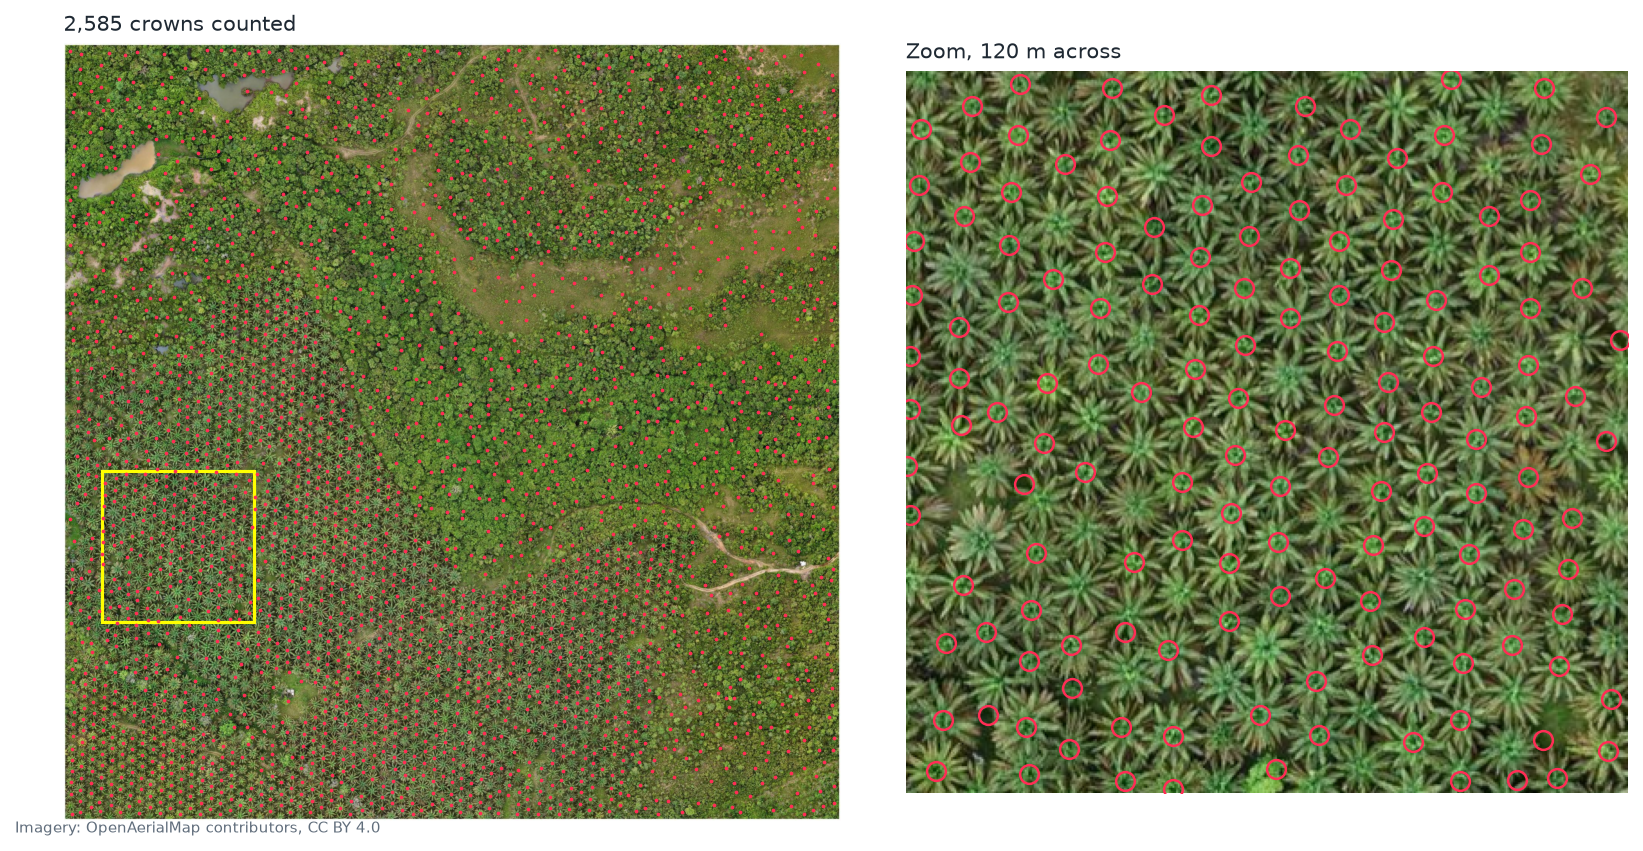
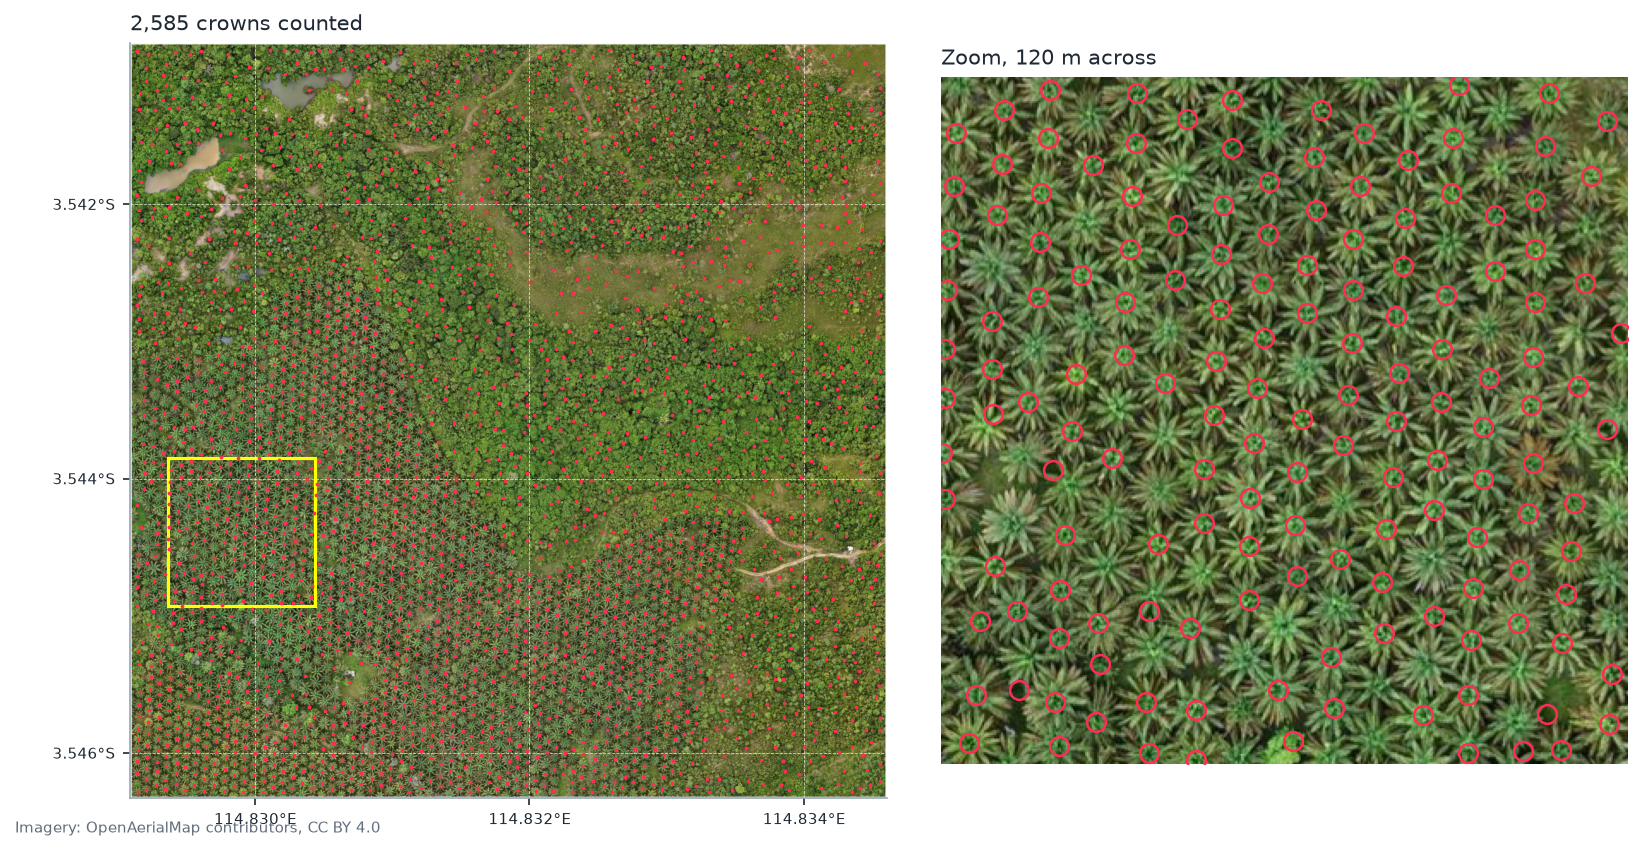
ch27: sensitivity study of the palm detector (35 settings; greenness cannot separate palms from other trees, spacing sweet spot 5-5.5 m, geometry filters), verdict and how to make it accurate; graticules on drone maps (EN+ID)
Claude-Session: https://claude.ai/code/session_01LrW3HEoXn4tmE8wHVZrLtN

diff --git a/scripts/py/ch27_palm_counting.py b/scripts/py/ch27_palm_counting.py
@@ -84,25 +84,48 @@ def density_frame():
     return grid * 4          # 50 m cell = 0.25 ha
 
 
+def lonlat_extent():
+    """The orthophoto's extent in degrees, for a graticule on the image maps."""
+    if "ext" not in _cache:
+        from rasterio.warp import transform_bounds
+        with rasterio.open("/vsicurl/" + URL) as src:
+            w, s_, e, n = transform_bounds(src.crs, "EPSG:4326", *src.bounds)
+        _cache["ext"] = [w, e, s_, n]
+    return _cache["ext"]
+
+
+def graticule(ax):
+    from matplotlib.ticker import FuncFormatter, MaxNLocator
+    ax.xaxis.set_major_locator(MaxNLocator(3)); ax.yaxis.set_major_locator(MaxNLocator(3))
+    ax.xaxis.set_major_formatter(FuncFormatter(lambda v, _: f"{abs(v):.3f}°E"))
+    ax.yaxis.set_major_formatter(FuncFormatter(lambda v, _: f"{abs(v):.3f}°S"))
+    ax.grid(True, color="#ffffff", lw=0.4, ls="--", alpha=0.7); ax.tick_params(labelsize=7)
+
+
 def figure_crowns():
     """The orthophoto with every counted crown, and a zoom on one corner."""
     rgb, res = load()
     peaks = count_palms()
     img = np.clip(np.moveaxis(rgb, 0, -1) / 255, 0, 1)
     fig, axes = plt.subplots(1, 2, figsize=(11, 5.6), gridspec_kw={"width_ratios": [1.2, 1]})
-    axes[0].imshow(img)
-    axes[0].plot(peaks[:, 1], peaks[:, 0], ".", color="#ff2d55", ms=1.6)
+    w, e, s_, n = lonlat_extent()
+    h, wd = img.shape[:2]
+    lon = w + (peaks[:, 1] + 0.5) / wd * (e - w)
+    lat = n - (peaks[:, 0] + 0.5) / h * (n - s_)
+    axes[0].imshow(img, extent=[w, e, s_, n])
+    axes[0].plot(lon, lat, ".", color="#ff2d55", ms=1.6)
     axes[0].set_title(f"{len(peaks):,} crowns counted", loc="left", fontsize=10)
     zy, zx, zs = int(0.55 * img.shape[0]), int(0.05 * img.shape[1]), int(120 / res)
-    axes[0].add_patch(plt.Rectangle((zx, zy), zs, zs, fill=False, ec="yellow", lw=1.5))
+    dx, dy = (e - w) / wd, (n - s_) / h
+    axes[0].add_patch(plt.Rectangle((w + zx * dx, n - (zy + zs) * dy), zs * dx, zs * dy, fill=False, ec="yellow", lw=1.5))
+    graticule(axes[0])
     axes[1].imshow(img[zy:zy + zs, zx:zx + zs])
     sel = ((peaks[:, 0] >= zy) & (peaks[:, 0] < zy + zs) &
            (peaks[:, 1] >= zx) & (peaks[:, 1] < zx + zs))
     axes[1].plot(peaks[sel, 1] - zx, peaks[sel, 0] - zy, "o", mfc="none", mec="#ff2d55",
                  ms=9, mew=1.2)
     axes[1].set_title("Zoom, 120 m across", loc="left", fontsize=10)
-    for ax in axes:
-        ax.set_axis_off()
+    axes[1].set_axis_off()            # a 120 m zoom; its position is the yellow box on the left map
     fig.text(0.01, 0.01, "Imagery: OpenAerialMap contributors, CC BY 4.0", fontsize=7,
              color="#616e7c")
     fig.tight_layout()
@@ -113,10 +136,14 @@ def figure_density():
     """Palms per hectare, 50 m cells."""
     grid = density_frame()
     fig, ax = plt.subplots(figsize=(6, 5.2))
-    im = ax.imshow(np.ma.masked_equal(grid, 0), cmap="YlGn", vmin=0, vmax=180)
+    w, e, s_, n = lonlat_extent()
+    rgb, res = load()
+    cell = int(50 / res)
+    ext = [w, w + grid.shape[1] * cell / rgb.shape[2] * (e - w), n - grid.shape[0] * cell / rgb.shape[1] * (n - s_), n]
+    im = ax.imshow(np.ma.masked_equal(grid, 0), cmap="YlGn", vmin=0, vmax=180, extent=ext)
     fig.colorbar(im, ax=ax, label="Palms per hectare (50 m cells)", shrink=0.8)
     ax.set_title("Planting density", loc="left", fontsize=10)
-    ax.set_axis_off()
+    graticule(ax); ax.grid(True, color="#333333", lw=0.3, ls="--")
     return fig
 
 
@@ -234,6 +261,97 @@ def plot_crosscheck(t):
     return fig
 
 
+# ---------------------------------------------------------------------------
+# Sensitivity: which settings count palms, and which count other trees too?
+# ---------------------------------------------------------------------------
+def smooth_exg():
+    if "smooth" not in _cache:
+        rgb, res = load()
+        r, g, b = rgb
+        exg = (2 * g - r - b) / np.maximum(r + g + b, 1)
+        _cache["smooth"] = ndi.gaussian_filter(exg, SIGMA_M / res)
+        _cache["valid"] = (rgb.sum(0) > 0).astype(int)
+    return _cache["smooth"], _cache["valid"]
+
+
+def detect(threshold, spacing_m):
+    sm, valid = smooth_exg()
+    _, res = load()
+    return peak_local_max(sm, min_distance=int(spacing_m / res), threshold_abs=threshold, labels=valid)
+
+
+def on_grid(peaks):
+    """True for detections with at least 3 neighbours 7-11 m away, as on a planting grid."""
+    _, res = load()
+    xy = peaks * res
+    tree = cKDTree(xy)
+    n_in = np.array([len(tree.query_ball_point(p, 11)) for p in xy])
+    n_close = np.array([len(tree.query_ball_point(p, 7)) for p in xy])
+    return (n_in - n_close) >= 3
+
+
+THRESHOLDS = (0.04, 0.30, 0.35, 0.40, 0.45, 0.50, 0.55)     # 0.04 is the default above; crown peaks start near 0.30
+SPACINGS = (4.0, 5.0, 5.5, 6.0, 7.0)
+
+
+def sensitivity_frame():
+    """Every combination of greenness threshold and minimum spacing, scored with two independent proxies.
+
+    No field count exists, so 'truth' is replaced by what two other sources agree on:
+      * not palm: detections in 50 m cells the satellite palm model scores below 0.2
+        (the drone confirms most of these cells are unplanted);
+      * palm-like: detections in cells the satellite scores above 0.5 that also
+        sit on a planting grid (>= 3 neighbours 7-11 m away).
+    """
+    if "sens" in _cache:
+        return _cache["sens"]
+    d = cells_frame()
+    _, res = load()
+    cell = int(50 / res)
+    p = np.full((d.row.max() + 1, d.col.max() + 1), np.nan)
+    p[d.row, d.col] = d.p2024
+    rows = []
+    for sp in SPACINGS:
+        for th in THRESHOLDS:
+            pk = detect(th, sp)
+            r, c = pk[:, 0] // cell, pk[:, 1] // cell
+            ok = (r < p.shape[0]) & (c < p.shape[1])
+            prob = np.full(len(pk), np.nan); prob[ok] = p[r[ok], c[ok]]
+            grid = on_grid(pk)
+            near, _ = cKDTree(pk * res).query(pk * res, k=2)
+            palm_like = int(((prob > 0.5) & grid).sum())
+            not_palm = int((prob < 0.2).sum())
+            rows.append({"min spacing (m)": sp, "ExG threshold": th, "detections": len(pk),
+                         "palm-like": palm_like, "in non-palm cells": not_palm,
+                         "share palm-like": palm_like / max(len(pk), 1),
+                         "pairs closer than 6 m (%)": 100 * (near[:, 1] < 6).mean()})
+    _cache["sens"] = pd.DataFrame(rows)
+    return _cache["sens"]
+
+
+def plot_sensitivity(t):
+    fig, (a1, a2) = plt.subplots(1, 2, figsize=(11, 4))
+    cols = {4.0: "#d95f02", 5.0: "#e6ab02", 5.5: "#1b7837", 6.0: "#1f78b4", 7.0: "#7570b3"}
+    for sp, g in t.groupby("min spacing (m)"):
+        a1.plot(g["in non-palm cells"], g["palm-like"], marker="o", color=cols[sp], label=f"min spacing {sp:g} m")
+        for _, r in g.iterrows():
+            a1.annotate(f'{r["ExG threshold"]:g}', (r["in non-palm cells"], r["palm-like"]), fontsize=6.5,
+                        xytext=(3, 2), textcoords="offset points", color=cols[sp])
+        a2.plot(g["ExG threshold"], g["share palm-like"] * 100, marker="o", color=cols[sp], label=f"{sp:g} m")
+    a1.set_xlabel("detections in cells with no palms (other trees, bushes)"); a1.set_ylabel("palm-like detections")
+    a1.legend(frameon=False, fontsize=8); a1.set_title("Every point is one setting; labels are the ExG threshold", loc="left", fontsize=9)
+    a2.set_xlabel("ExG threshold"); a2.set_ylabel("detections that are palm-like (%)")
+    a2.set_title("Raise the threshold and the share of palms FALLS: the greenest crowns are not palms", loc="left", fontsize=9)
+    for a in (a1, a2):
+        a.spines[["top", "right"]].set_visible(False)
+    best = t.loc[(t["palm-like"] - t["in non-palm cells"]).idxmax()]
+    fig.suptitle(f"Best trade-off: spacing {best['min spacing (m)']:g} m, threshold {best['ExG threshold']:g} "
+                 f"({int(best['palm-like']):,} palm-like, {int(best['in non-palm cells']):,} in non-palm cells)",
+                 x=0.01, ha="left", fontweight="bold")
+    fig.tight_layout()
+    return fig
+
+
 def products():
     return [
         {"kind": "figure", "name": "ch27-palm-crowns", "figure": figure_crowns,
@@ -252,6 +370,11 @@ def products():
          "floatfmt": (".0f", ".1f", ".1f", ".2f", ".0f"),
          "caption": "The count in numbers. Without field counts this is not an "
                     "accuracy; the spacing check is the evidence available."},
+        {"kind": "table", "name": "ch27-sensitivity", "data": sensitivity_frame,
+         "floatfmt": (".1f", ".2f", ",.0f", ",.0f", ",.0f", ".2f", ".0f"),
+         "caption": "Eighteen settings of the same method, scored against two independent proxies for truth."},
+        {"kind": "chart", "name": "ch27-sensitivity-chart", "data": sensitivity_frame, "plot": plot_sensitivity, "live": False,
+         "caption": "The trade-off between finding palms and counting other trees, for every setting."},
         {"kind": "table", "name": "ch27-crosscheck", "data": crosscheck_table, "columns": ["measure", "shown"],
          "caption": "The drone count against the Forest Data Partnership oil palm model (Sentinel-based, 10 m), cell by cell."},
         {"kind": "chart", "name": "ch27-crosscheck-chart", "data": crosscheck_table, "plot": plot_crosscheck, "live": False,
